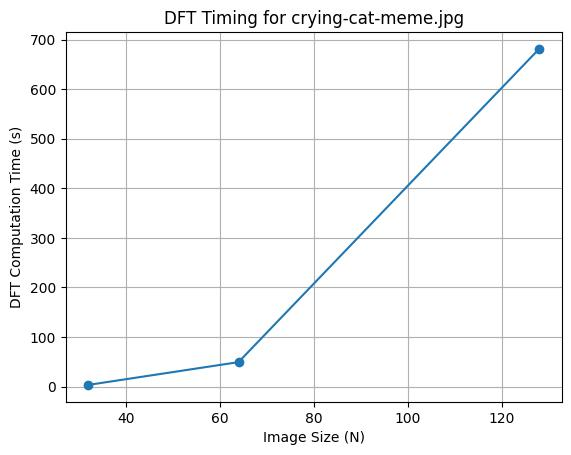
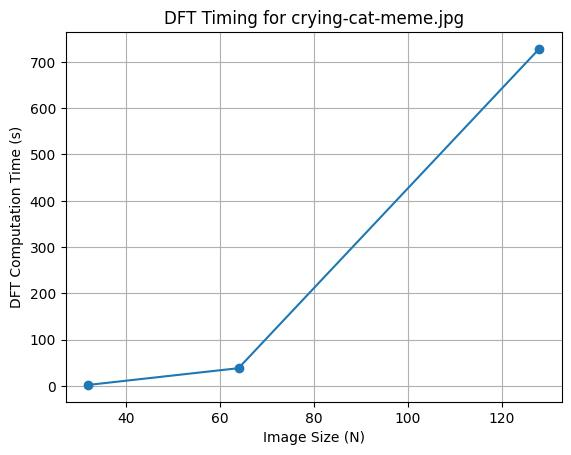
final

diff --git a/lab5_fft.py b/lab5_fft.py
@@ -12,10 +12,37 @@ from src.resize import crop_power2, reduce_image
 # Define directories
 image_dir = "images\\"
 image_names = ["crying-cat-meme.jpg", "nebula.jpg", "squirrel.jpg", "beach_sunset.jpg"]
+
+image_names = ["squirrel.jpg"]
+
 output_dir = "outputs\\lab5_transforms"  # Save all transform outputs here
 
 # Ensure the output directory exists
 os.makedirs(output_dir, exist_ok=True)
+
+# Function to generate timing plots
+def plot_transform_times(sizes,dfts_time,ffts_time, image_name = ""):
+
+    plt.figure(figsize=(8, 6))
+
+    # Plot DFT times
+    plt.plot(sizes, dfts_time, marker='o', label='DFT Time', color='blue')
+
+    # Plot FFT times
+    plt.plot(sizes, ffts_time, marker='s', label='FFT Time', color='green')
+
+    # Add labels, title, and legend
+    plt.xlabel('Image Size')
+    plt.ylabel('Time (seconds)')
+    plt.title(f'Image {image_name}: DFT vs FFT Times')
+    plt.legend()
+
+    # Show grid
+    plt.grid(True, which='both', linestyle='--', linewidth=0.5)
+
+    # Show the plot
+    plt.savefig(f"{output_dir}\\transform_times_image_{image_name}.jpg")
+    plt.close()
 
 # Function to compute and save FFT and DFT transforms for an image
 def save_transforms_for_image(image_name, min_size=16):
@@ -25,12 +52,17 @@ def save_transforms_for_image(image_name, min_size=16):
     cropped_image = np.array(cropped_image)
     cropped_image = rgb2gray(cropped_image)
 
-    cropped_image = reduce_image(cropped_image)
+    cropped_image = reduce_image(cropped_image,1)
     # Reduce the image size and compute transforms
     size = cropped_image.shape[0]
     print(size)
     n = 1  # Reduction factor (2^n)
 
+    all_times = []
+
+    sizes = []
+    dfts_time = []
+    ffts_time = []
     while size >= min_size:
         print(f"Processing image {image_name} at size {size}x{size}...")
 
@@ -41,23 +73,29 @@ def save_transforms_for_image(image_name, min_size=16):
         transform_dict = {}
         time_dict = {}
 
+        time_dict["size"] = reduced_image.shape[0]
+        sizes.append(reduced_image.shape[0])
+
+        
         # Compute FFT and time it
         start_time = time()
         fft_og, _ = fft2d(reduced_image, inverse=False)
         time_dict["fft"] = time() - start_time
         transform_dict["fft"] = center_fourier(fft_og)
 
+        ffts_time.append(time() - start_time)
+
         # Compute DFT and time it
         start_time = time()
         dft_og = dft2d(reduced_image, inverse=False)
         time_dict["dft"] = time() - start_time
         dft_og_center = center_fourier(dft_og)
-        
         transform_dict["dft"] = center_fourier(dft_og)
 
-        # # Save transforms
-        save_transforms(image_name + f"_{size}", transform_dict, output_dir)
+        dfts_time.append(time_dict["dft"])
 
+        
+        all_times.append(time_dict)
         # Plot and save Fourier spectrum
         for key, transform in transform_dict.items():
             spectrum = fourier_spectrum(transform.real, transform.imag)
@@ -70,30 +108,8 @@ def save_transforms_for_image(image_name, min_size=16):
         # Update size and reduction factor
         n += 1
         size = reduced_image.shape[0]
-
-# Function to generate timing plots
-def plot_transform_times(all_times):
-    for i, times in enumerate(all_times):
-        plt.figure(figsize=(8, 6))
-
-        # Plot DFT times
-        plt.plot(times["size"], times["dft"], marker='o', label='DFT Time', color='blue')
-
-        # Plot FFT times
-        plt.plot(times["size"], times["fft"], marker='s', label='FFT Time', color='green')
-
-        # Add labels, title, and legend
-        plt.xlabel('Image Size')
-        plt.ylabel('Time (seconds)')
-        plt.title(f'Image {i + 1}: DFT vs FFT Times')
-        plt.legend()
-
-        # Show grid
-        plt.grid(True, which='both', linestyle='--', linewidth=0.5)
-
-        # Show the plot
-        plt.savefig(f"{output_dir}\\transform_times_image_{i + 1}.jpg")
-        plt.close()
+    
+    plot_transform_times(sizes,dfts_time,ffts_time,image_name)
 
 # Main function to process all images
 def main():
@@ -108,7 +124,7 @@ def main():
     np_real = f.real
     np_imag = f.imag
 
-    fft_og, _ = fft2d(test_image, centered=True)
+    fft_og, _ = fft2d(test_image, centered=False)
     og_real = fft_og.real
     og_imag = fft_og.imag
 

diff --git a/src/jpeg.py b/src/jpeg.py
@@ -3,7 +3,7 @@ from src.image_transforms import dct2d
 # %%
 import numpy as np
 from PIL import Image
-from src.jpeg_tables import DC_CODE, AC_CODE
+from src.jpeg_tables import DC_CODE, AC_CODE, category
 
 
 Y_quantization_matrix = np.array([
@@ -16,41 +16,6 @@ Y_quantization_matrix = np.array([
     [49, 64, 78, 87, 103, 121, 120, 101],
     [72, 92, 95, 98, 112, 100, 103, 99]
 ])
-
-def category(coeff):
-    """Returns the DC category based on the difference."""
-    if coeff == 0:
-        return 0
-    elif abs(coeff) <= 1:
-        return 1
-    elif abs(coeff) <= 3:
-        return 2
-    elif abs(coeff) <= 7:
-        return 3
-    elif abs(coeff) <= 15:
-        return 4
-    elif abs(coeff) <= 31:
-        return 5
-    elif abs(coeff) <= 63:
-        return 6
-    elif abs(coeff) <= 127:
-        return 7
-    elif abs(coeff) <= 255:
-        return 8
-    elif abs(coeff) <= 511:
-        return 9
-    elif abs(coeff) <= 1023:
-        return 10
-    elif abs(coeff) <= 2047:
-        return 11
-    elif abs(coeff) <= 4095:
-        return 12
-    elif abs(coeff) <= 8191:
-        return 13
-    elif abs(coeff) <= 16383:
-        return 14
-    else:
-        return 15
 
 
 def zigzag_scan(matrix):

diff --git a/src/jpeg_tables.py b/src/jpeg_tables.py
@@ -1,4 +1,40 @@
 
+def category(coeff):
+    """Returns the DC/AC category based on the difference."""
+    if coeff == 0:
+        return 0
+    elif abs(coeff) <= 1:
+        return 1
+    elif abs(coeff) <= 3:
+        return 2
+    elif abs(coeff) <= 7:
+        return 3
+    elif abs(coeff) <= 15:
+        return 4
+    elif abs(coeff) <= 31:
+        return 5
+    elif abs(coeff) <= 63:
+        return 6
+    elif abs(coeff) <= 127:
+        return 7
+    elif abs(coeff) <= 255:
+        return 8
+    elif abs(coeff) <= 511:
+        return 9
+    elif abs(coeff) <= 1023:
+        return 10
+    elif abs(coeff) <= 2047:
+        return 11
+    elif abs(coeff) <= 4095:
+        return 12
+    elif abs(coeff) <= 8191:
+        return 13
+    elif abs(coeff) <= 16383:
+        return 14
+    else:
+        return 15
+
+
 #%%
 # Mapping letters to numbers
 letter_to_number = {'A': 10, 'B': 11, 'C': 12, 'D': 13, 'E': 14, 'F': 15}

diff --git a/lab11_jpg.py b/lab11_jpg.py
@@ -62,13 +62,13 @@ def create_bar_graph(image_names, jpeg_codes):
 def main():
     jpeg_codes = []
 
-    for image_name in image_names:
-        print(f"Processing {image_name}...")
-        jpeg_code = calculate_jpeg_code(image_name)
-        jpeg_codes.append(jpeg_code)
+    # for image_name in image_names:
+    #     print(f"Processing {image_name}...")
+    #     jpeg_code = calculate_jpeg_code(image_name)
+    #     jpeg_codes.append(jpeg_code)
 
-    # Create bar graph for JPEG code lengths
-    create_bar_graph(image_names, jpeg_codes)
+    # # Create bar graph for JPEG code lengths
+    # create_bar_graph(image_names, jpeg_codes)
 
     # Run sanity check
     sanity_check()
